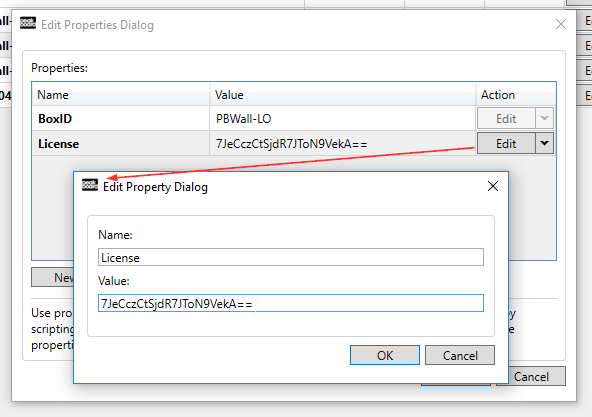
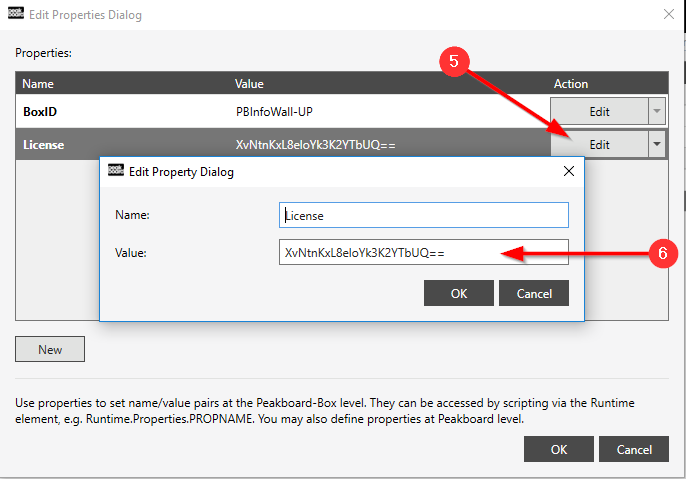
Bilder und Text aktualisiert de&en

diff --git a/content/_administration/05-de-lizenz-aendern.md b/content/_administration/05-de-lizenz-aendern.md
@@ -7,12 +7,12 @@ lang: de
 ref: admin-07
 ---
 
-Um die Lizenz einer Peakboard-Box zu ändern Klicken Sie im Peakboard Designer zunächst auf den Manage Button.
+Um die Lizenz einer Peakboard-Box zu ändern Klicken Sie im Peakboard Designer zunächst auf den Manage Button (1).
 
-Wählen Sie hier bei der gewünschten Peakboard-Box den Menü-Button, um dort den Menüpunkt – Set device properties – anzuklicken.
+Im Manage Dialog selektieren Sie die gewünschten Peakboard-Box (2) und öffnen über den Menü-Button Settings (3) den Menüpunkt Set Properties (4).
 
 ![Manage Dialog](/assets/images/admin/license/manage-dialog.png)
 
-Im folgenden Dialog können Sie den Wert License über den Edit Button anpassen.
+Im folgenden Dialog können Sie den Wert License über den Edit Button (5) anpassen. Unter Value (6) tragen Sie den neuen Lizenzschlüssel ein.
 
 ![Edit Properties Dialog](/assets/images/admin/license/edit-license.png)

diff --git a/content/_administration/05-en-change-license.md b/content/_administration/05-en-change-license.md
@@ -7,12 +7,12 @@ lang: en
 ref: admin-05
 ---
 
-To change the license of a Peakboard-Box click on the Manage button in the Peakboard-Designer.
+To change the license of a Peakboard box, first click on the Manage button (1) in the Peakboard Designer.
 
-Select the menu button for the desired Peakboard-Box to select the menu item – Set device properties.
+In the Manage dialog select the desired Peakboard Box (2) and open the menu item Set Properties (4) via the menu button Settings (3).
 
 ![Manage Dialog](/assets/images/admin/license/manage-dialog.png)
 
-In the following dialog you can adjust the value License via the Edit button.
+In the following dialog you can adjust the License value via the Edit button (5). Under Value (6) enter the new license key.
 
 ![Edit Properties Dialog](/assets/images/admin/license/edit-license.png)
